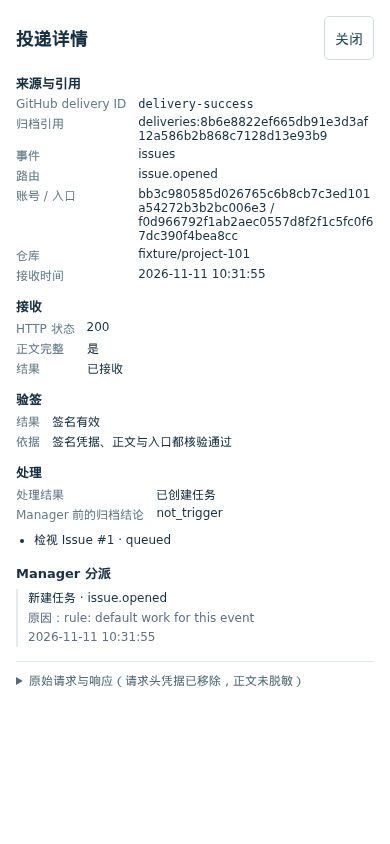
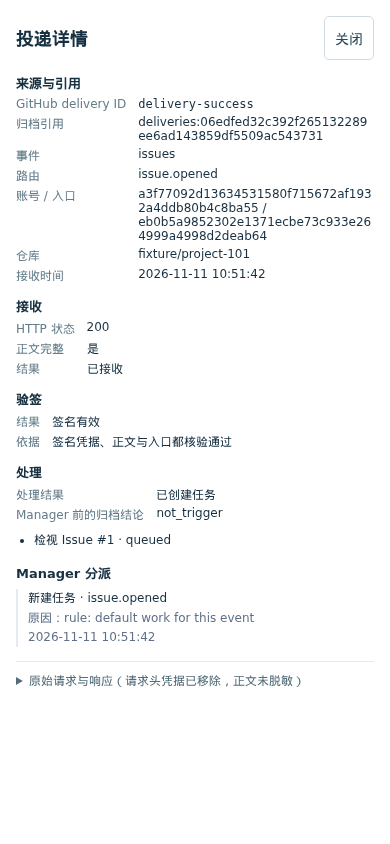
fix(#238): keep the archive outcome wording the trial spec reads

Changed region(s): [[0.3385, 0.2156, 0.9538, 0.3389], [0.3385, 0.1232, 0.9538, 0.1848], [0.3692, 0.7393, 0.4, 0.7701]]

diff --git a/static/app.js b/static/app.js
@@ -62,7 +62,8 @@ function deliveryCaption(row){return {tasks_created:'已创建任务',draft:'因
 // #238: reception, signature verification and processing are read as separate facts. Archive outcomes keep their own
 // neutral wording, so duplicate/draft/disabled/untriggered rows never borrow the refusal styling of a bad signature.
 const deliveryOutcomes = {
-  tasks_created:['已创建任务','success'], duplicate:['重复投递，未重复创建','info'], draft:['草稿跳过','info'], not_trigger:['不触发处理',''],
+  // Wording stays the archive contract the existing trial spec reads: these are archive outcomes, not failures.
+  tasks_created:['已创建任务','success'], duplicate:['重复，不重复建任务','info'], draft:['因草稿跳过','info'], not_trigger:['不是触发事件',''],
   review_disabled:['检视未开启，仅归档',''], project_disabled:['项目已禁用，仅归档',''], unregistered_repository:['仓库未启动，仅归档',''],
   invalid_signature:['未处理：签名无效','danger'], invalid_payload:['未处理：正文无效','danger'], payload_too_large:['未处理：正文过大','danger'],
   unknown_endpoint:['未处理：入口不存在','danger'], missing_event_or_delivery:['未处理：投递信息不全','danger'] };
